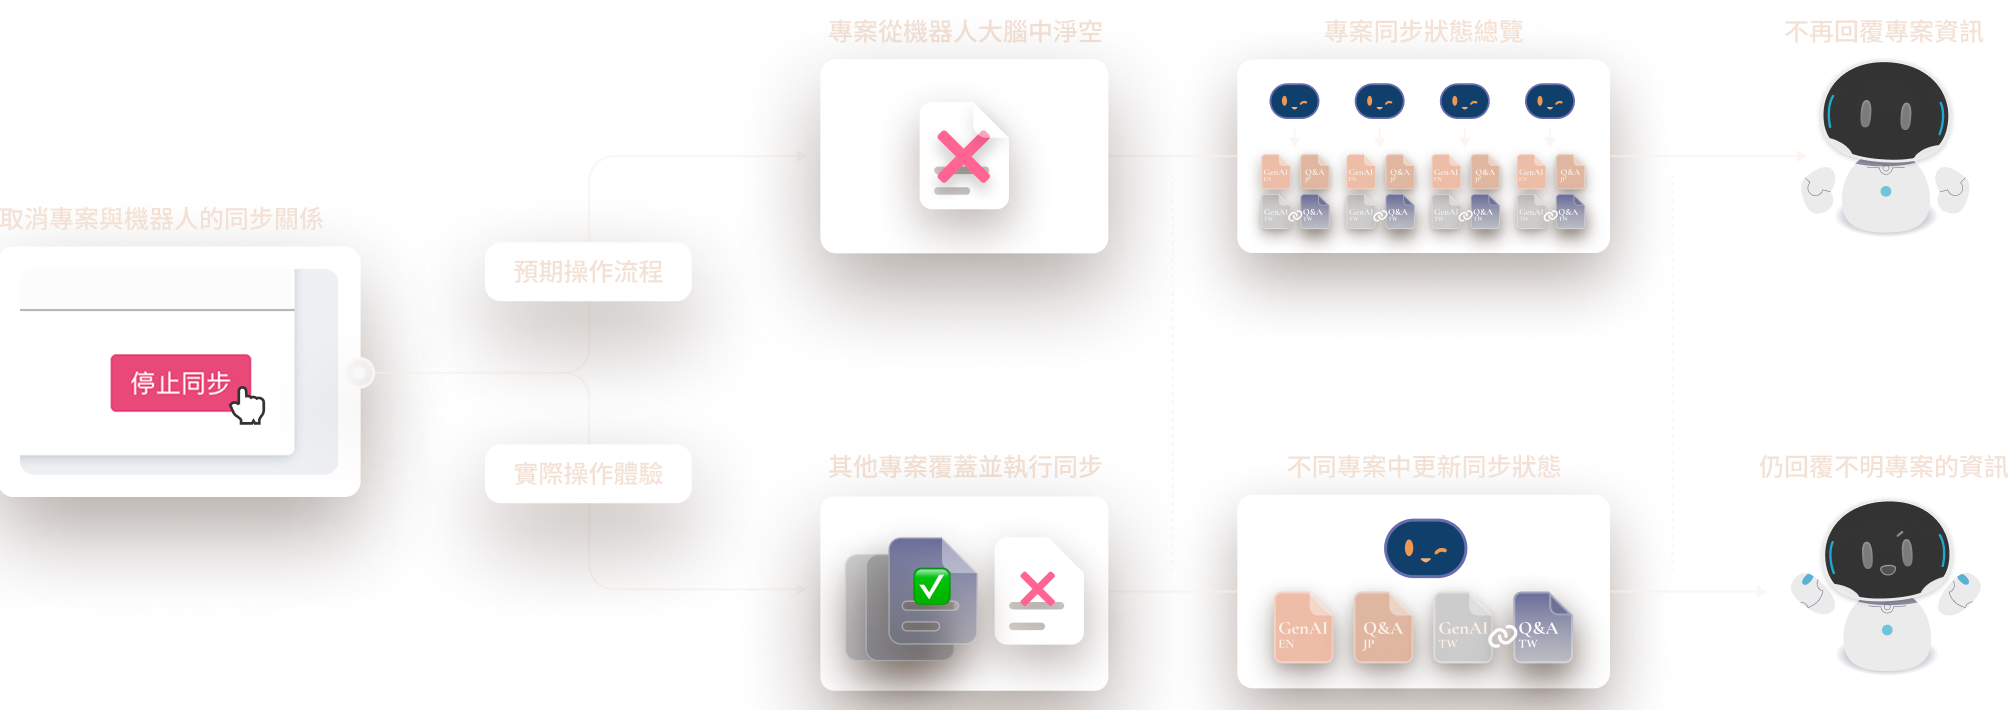
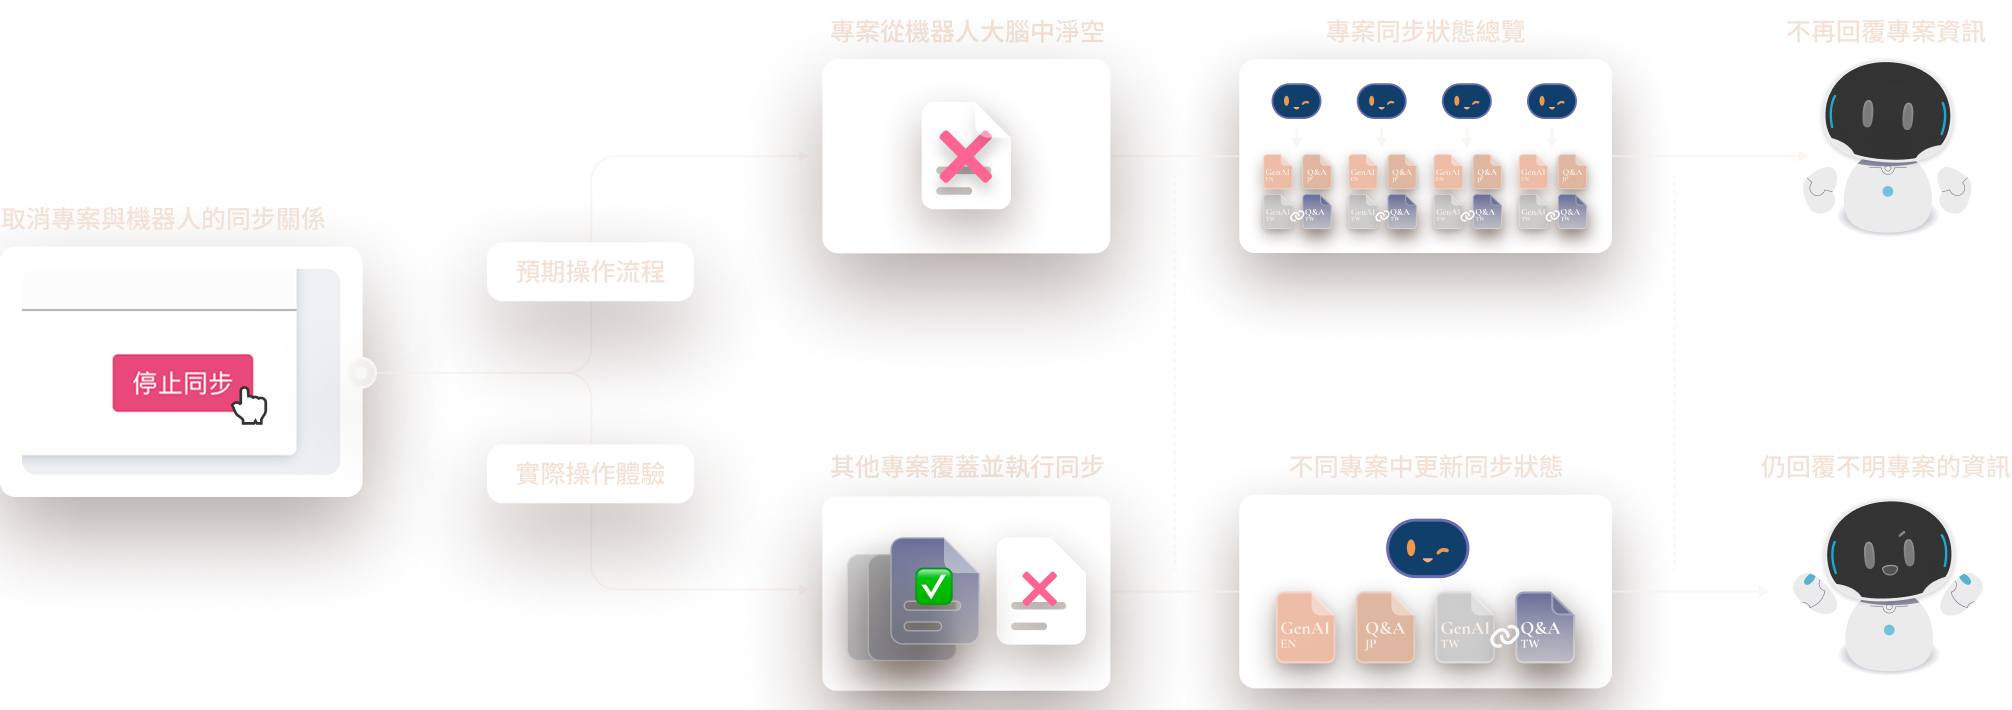
case01 三項微調 + 置換重匯出的流程對照圖
- 六宮格 rwd：角色欄仍在最左（52px 窄欄），欄內 emoji + 角色名改置中對齊
- 互動區塊：大哉問 28 → 26px（web／rwd 一致）
- 互動區塊：小熊 + 泡泡往內移改為最終值 10%（margin-left 30%，非疊加；上輪 40% 已回退）
- 置換 handoff 重匯出的 flow-comparison-web-tw（2010→2012px 寬）
  ⚠ 逐像素複驗：新版左緣留白仍為 0px、右緣 29px，左側裁切未改善（詳見回報）

diff --git a/src/styles/components.css b/src/styles/components.css
@@ -2092,7 +2092,7 @@ main > .cs-next-sec:last-child {
   font-family: var(--font-serif-en);
   font-style: italic;
   font-weight: 600;
-  font-size: 28px; /* web／rwd 統一 28px */
+  font-size: 26px; /* web／rwd 統一 26px */
   line-height: 1.42;
   color: var(--ondark-link); /* #E1E2EF 淡冷紫（白名單允許的冷色強調）；禁用 #676DAF */
 }
@@ -2102,7 +2102,7 @@ main > .cs-next-sec:last-child {
   position: relative;
   width: 104px;
   align-self: flex-start;
-  margin-left: 40%; /* 對話框變窄後往內（往中心）再移 20%：20% → 40% */
+  margin-left: 30%; /* 往內移 10%（最終值，非疊加）：原始 20% + 10% = 30% */
 }
 .redefine-bear { width: 100%; }
 .redefine-bear svg { width: 100%; height: auto; display: block; }
@@ -2134,10 +2134,11 @@ main > .cs-next-sec:last-child {
   .pm-colhead {
     grid-column: 1;
     flex-direction: column;
-    align-items: flex-start; /* 角色欄置左 */
+    align-items: center; /* 欄位本身置左（52px 窄欄在最左），欄內 emoji + 角色名置中對齊 */
     gap: 4px;
     padding: 0;
     justify-content: center;
+    text-align: center;
   }
   .pm-colhead.pm-r1 { grid-row: 2; }
   .pm-colhead.pm-r2 { grid-row: 3; }
@@ -2163,7 +2164,7 @@ main > .cs-next-sec:last-child {
 
   /* 互動區塊 rwd：方框置中、小熊與泡泡一起置中（不再偏左） */
   .redefine-box { padding: 24px 22px; margin-bottom: 68px; }
-  .redefine-q { font-size: 28px; } /* 與 web 同為 28px */
+  .redefine-q { font-size: 26px; } /* 與 web 同為 26px */
   .redefine-bearwrap { width: 88px; align-self: center; margin-left: 0; }
   .rd-tb1 { top: -22px; }
   .rd-tb2 { top: -48px; }
